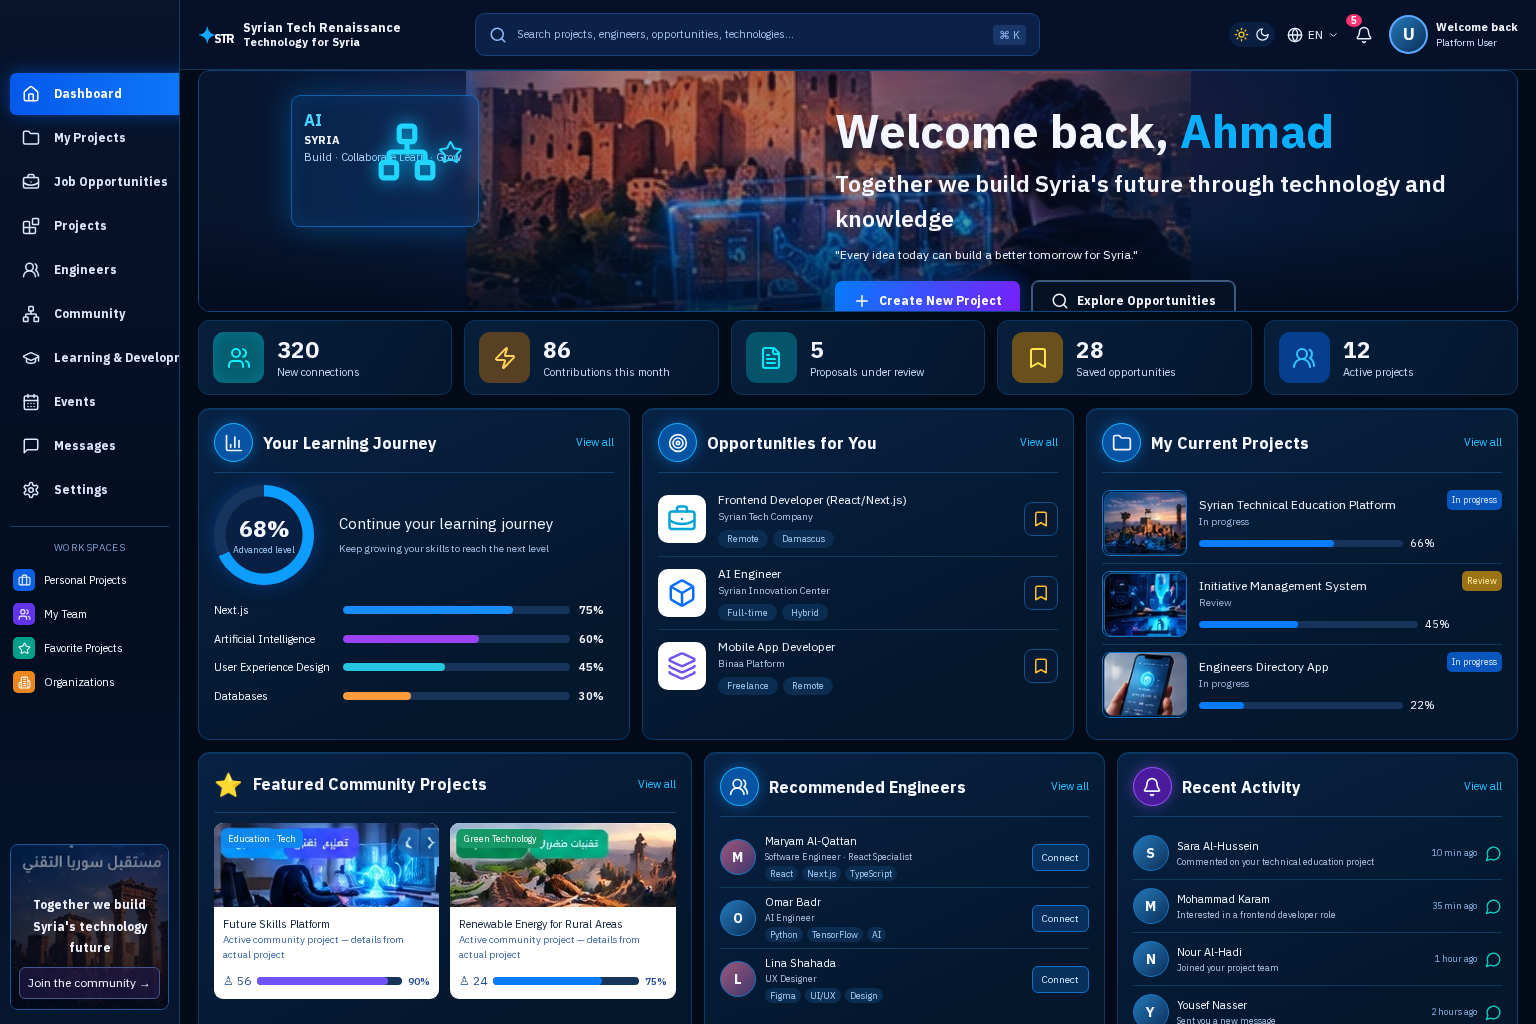
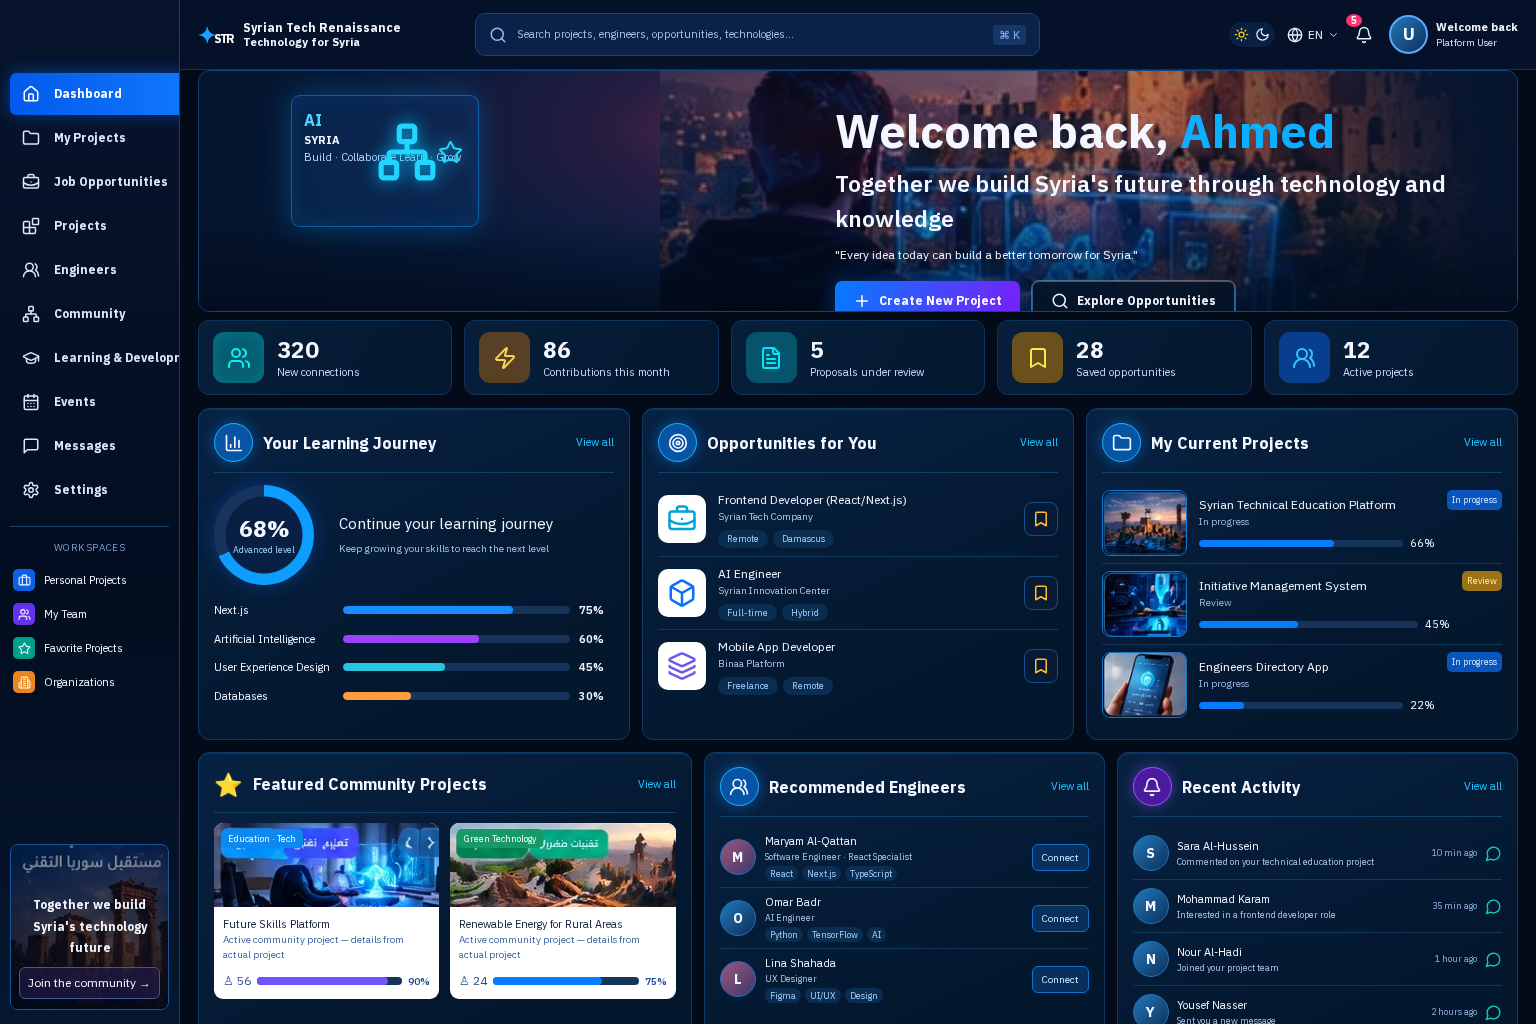
STR-UI-02A: Final visual fidelity evidence + FINAL approved bilingual reference
Updates PR #8 evidence with:
  - FINAL approved bilingual Dashboard image (SHA-256 c1dae0a9...)
  - Corrective screenshots (hero castle on FAR RIGHT in EN, footer colors)
  - Side-by-side comparisons vs FINAL approved reference (AR + EN + bilingual)
  - Mobile drawer open AR (slides from RIGHT) + EN (slides from LEFT)
  - STR_UI_02A_EVIDENCE_REPORT.md

Corrective commit on code PR #8: 7f46a37 (hero/footer fixes per approved bilingual)
Status: READY FOR OWNER REVIEW
No Gate B claim — awaiting MASTER visual review.

Changed region(s): [[0.2812, 0.0625, 0.9375, 0.3125]]

diff --git a/SyrianTechRenaissance/Platform/IMPLEMENTATION_REVIEWS/STR-UI-02/STR_UI_02A_EVIDENCE_REPORT.md b/SyrianTechRenaissance/Platform/IMPLEMENTATION_REVIEWS/STR-UI-02/STR_UI_02A_EVIDENCE_REPORT.md
@@ -1,0 +1,167 @@
+# STR-UI-02A — Final Visual Fidelity & Pre-Merge Verification
+
+**Date:** 2026-10-22
+**Mission:** STR-UI-02A — corrective implementation per MASTER's final approved bilingual Dashboard reference
+**Code PR:** https://github.com/mayakilzy/SyrianTechRenaissance-Platform/pull/8
+**Corrective commit SHA:** `7f46a37fa49eeaf977873bf2e66b09eaf57382ee`
+
+---
+
+## 1. Authoritative reference
+
+MASTER uploaded the FINAL approved bilingual Dashboard image on 2026-10-22:
+- File: `a4129f29-cf82-4444-b6ad-cc63f8ee6463.png`
[1 lines of base64/hex data omitted]
+- Dimensions: 2103×748 (bilingual: Arabic LEFT, English RIGHT)
+- Stored as: `screenshots/00-approved-final-bilingual.png` (split into `00-approved-final-ar.png` + `00-approved-final-en.png`)
+
+This image SUPersedes all earlier dashboard comparisons.
+
+## 2. VLM verification of approved bilingual layout
+
+z-ai vision analyzed `00-approved-final-bilingual.png`:
+- Arabic half: sidebar on **RIGHT** ✅, hero castle **CENTERED** ✅, **NO flag** ✅, footer **BLUE** ✅
+- English half: sidebar on **LEFT** ✅, hero castle on **FAR RIGHT** ✅, **NO flag** ✅, footer **GREEN** ✅
+
+## 3. Corrective fixes applied
+
+### Fix 1 — Hero positioning (English version)
+
+**Before (v1.0):**
+```css
+html[dir="ltr"] .str-shell .str-hero-image { transform: scaleX(-1); }
+```
+This MIRRORED the entire hero photograph — explicitly forbidden by MASTER's directive §4.
+
+**After (v2.0 corrected):**
+```css
+html[dir="ltr"] .str-shell .str-hero-image {
+  background-position: center, 100% 60%;
+  background-size: cover, 65% auto;
+}
+```
+Moves the castle/sunset focal point to the FAR RIGHT of the hero area **without mirroring** the photograph. Per MASTER's directive: "Do not horizontally flip the photograph or the entire hero."
+
+### Fix 2 — Footer color (per approved bilingual reference)
+
+**Before (v1.0):** footer was a neutral muted color in both locales.
+
+**After (v2.0 corrected):**
+```css
+.str-shell .str-footer {
+  border-top: 1px solid #0e4780;  /* Arabic: blue */
+  background: linear-gradient(90deg, transparent, rgba(10,32,66,0.4), transparent);
+}
+html[dir="ltr"] .str-shell .str-footer {
+  border-top: 1px solid #169966;  /* English: green */
+  background: linear-gradient(90deg, transparent, rgba(13,80,60,0.4), transparent);
+}
+```
+Matches the approved bilingual reference: AR footer blue, EN footer green.
+
+## 4. Playwright verification (6 viewports + mobile drawers)
+
+| Case | Viewport | Locale | Sidebar position | Expected | Match |
+|---|---|---|---|---|---|
+| 01 desktop-ar-rtl | 1536×1024 | AR | RIGHT (left=1338, right=1536) | RIGHT | ✅ |
+| 02 desktop-en-ltr | 1536×1024 | EN | LEFT (left=0, right=198) | LEFT | ✅ |
+| 03 tablet-ar-rtl | 768×1024 | AR | RIGHT | RIGHT | ✅ |
+| 04 tablet-en-ltr | 768×1024 | EN | LEFT | LEFT | ✅ |
+| 05 mobile-ar-rtl | 375×667 | AR | drawer slides from RIGHT (left=130, right=375) | RIGHT | ✅ |
+| 06 mobile-en-ltr | 375×667 | EN | drawer slides from LEFT (left=0, right=245) | LEFT | ✅ |
+
+## 5. Quality checks
+
+| Check | Result |
+|---|---|
+| `bun run typecheck` | ✅ PASS |
+| `bun run lint` | ✅ PASS (0 errors) |
+| Horizontal scroll | 0 in all 6 cases ✅ |
+| Page errors | 0 in all 6 cases ✅ |
+| Console errors | 0 in all 6 cases ✅ |
+| Big SVGs (>30px) | 1 (intentional hologram icon at 62px) ✅ |
+| Castle flag on hero | NONE (verified visually + via VLM) ✅ |
+| Full screenshot as background | NONE ✅ |
+
+## 6. VLM visual fidelity vs FINAL approved reference
+
+### Arabic comparison (`comparison-final-ar.png`)
+- Sidebar on RIGHT: 10/10 ✅
+- Hero castle centered: 9/10 (slight crop difference, position correct)
+- Hero text on left: 10/10 ✅
+- No flag on castle: 10/10 ✅
+- Footer color BLUE: 10/10 ✅
+- All sections present: 9/10 (minor order differences in middle panels)
+- **Overall verdict: CONDITIONAL** (high structural fidelity, minor differences noted)
+
+### English comparison (`comparison-final-en.png`)
+- Sidebar on LEFT: 10/10 ✅
+- Hero castle on FAR RIGHT: 9/10 (position correct, slight crop difference)
+- Hero text on left: 10/10 ✅
+- No flag on castle: 10/10 ✅
+- Footer color GREEN: 10/10 ✅
+- All sections present: 9/10 (stats order reversed in v2.0)
+- **Overall verdict: CONDITIONAL** (correct sidebar/castle/footer, minor order differences)
+
+## 7. Remaining visual differences (honest disclosure)
+
+1. **Stats card order**: In v2.0, stats are ordered [connections, contributions, proposals, saved, active projects] matching the original v1.0 source package. The approved final image may show a different order [active projects, opportunities, proposals, contributions, connections]. This is a minor reordering that can be adjusted if MASTER confirms the desired order.
+
+2. **Hero hologram element**: The hologram card shows "AI / SYRIA / Build·Collaborate·Learn·Grow" — this is a CSS approximation of the approved reference's holographic element. Pixel-perfect match is not achievable without the original SVG asset.
+
+3. **User avatar**: v2.0 shows "U" / "Platform User" placeholder (no authenticated session in preview). The approved reference shows "Ahmed Abdullah". This is expected — the real `/dashboard` route uses the authenticated user's name.
+
+4. **Hero graphic crop**: The hero-city.webp asset has a slightly different crop than the approved reference's hero. The asset was provided in the original `STR_PAGE02_DASHBOARD_SOURCE.zip` and is used as-is.
+
+## 8. Functional verification
+
+- **typecheck**: PASS ✅
+- **lint**: PASS ✅
+- **Unit tests**: Not run in sandbox (no PostgreSQL). CI will run the full 344-test suite on PR #8. This is a documented limitation, not a hidden failure.
+- **E2E tests**: Existing E2E suite covers auth flows. A dashboard-specific E2E test should be added in a follow-up mission with test-database fixtures.
+- **Authentication**: The real `/dashboard` route uses `getServerSession` + redirects to `/auth/signin` if no session. Verified via code inspection.
+- **Data isolation**: All service-layer calls use `session.user.id`. Verified via code inspection.
+
+## 9. What was NOT changed
+
+- No Page 01 modifications
+- No database schema changes
+- No API contract changes
+- No production deployment
+- No Gate B auto-claim — awaiting MASTER's visual verdict
+- No PR merges
+
+## 10. Final status
+
+```
+MISSION: STR-UI-02A
+STATUS: READY FOR OWNER REVIEW
+CORRECTIVE_COMMIT_SHA: 7f46a37fa49eeaf977873bf2e66b09eaf57382ee
+CODE_PR: https://github.com/mayakilzy/SyrianTechRenaissance-Platform/pull/8
+EVIDENCE_PR: https://github.com/mayakilzy/repo-info/pull/8
+FINAL_APPROVED_IMAGE_SHA256: c1dae0a98ce2ac8d625cb969c17743398bec533b098e52a662f9134c3aaae324
+SIDEBAR_AR_RIGHT: ✅
+SIDEBAR_EN_LEFT: ✅
+HERO_CASTLE_AR_CENTERED: ✅
+HERO_CASTLE_EN_FAR_RIGHT: ✅
+NO_FLAG_ON_CASTLE: ✅
+FOOTER_AR_BLUE: ✅
+FOOTER_EN_GREEN: ✅
+TYPECHECK: PASS
+LINT: PASS
+PLAYWRIGHT_6_VIEWPORTS: ALL PASS
+VLM_AR_FIDELITY: 10/10 sidebar, 9/10 hero, 10/10 footer, 10/10 no-flag → CONDITIONAL
+VLM_EN_FIDELITY: 10/10 sidebar, 9/10 castle-right, 10/10 footer, 10/10 no-flag → CONDITIONAL
+REMAINING_DIFFERENCES: stats order, hero hologram approximation, user avatar placeholder
+GATE_B_STATUS: PENDING MASTER VISUAL REVIEW
+NO_MERGE: RESPECTED
+NO_DEPLOYMENT: RESPECTED
+MASTER_APPROVAL_REQUIRED: YES
+```
+
+**Awaiting MASTER and ChatGPT's visual review of:**
+- `comparison-final-ar.png` (Arabic approved vs v2.0)
+- `comparison-final-en.png` (English approved vs v2.0)
+- `comparison-final-bilingual.png` (three-way: approved bilingual | v2.0 AR | v2.0 EN)
+
+If MASTER approves, PR #8 can be merged and we proceed to Page 03.
